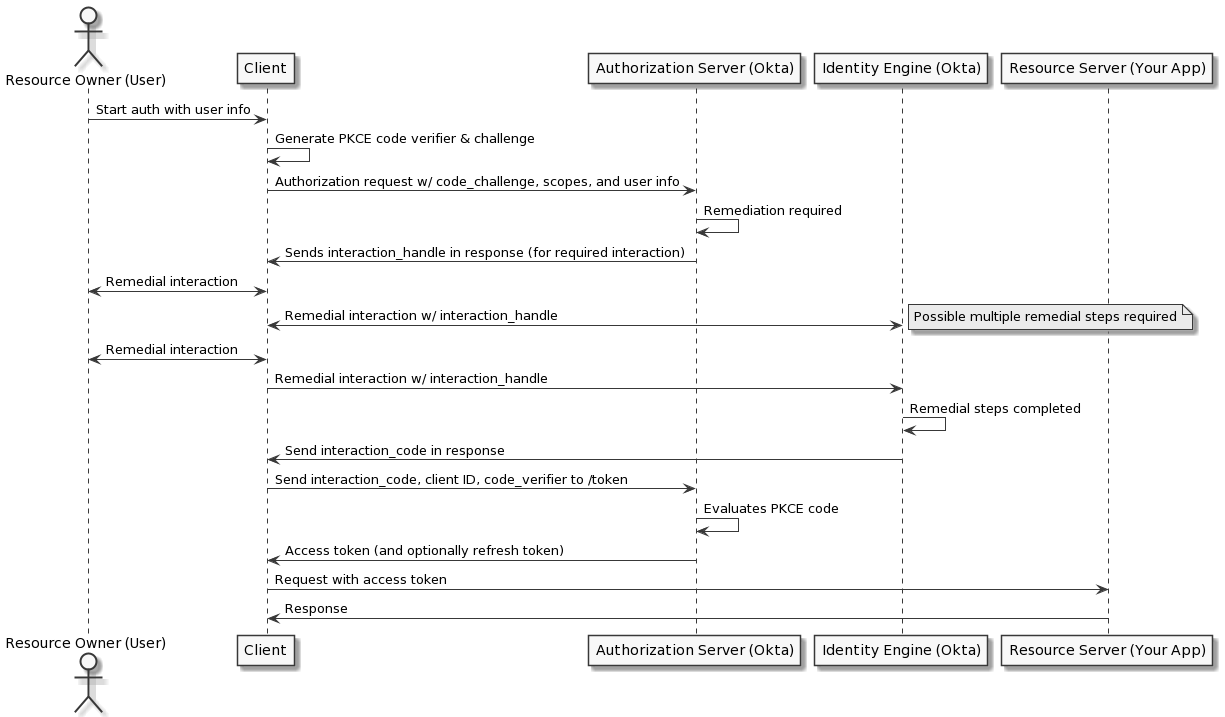
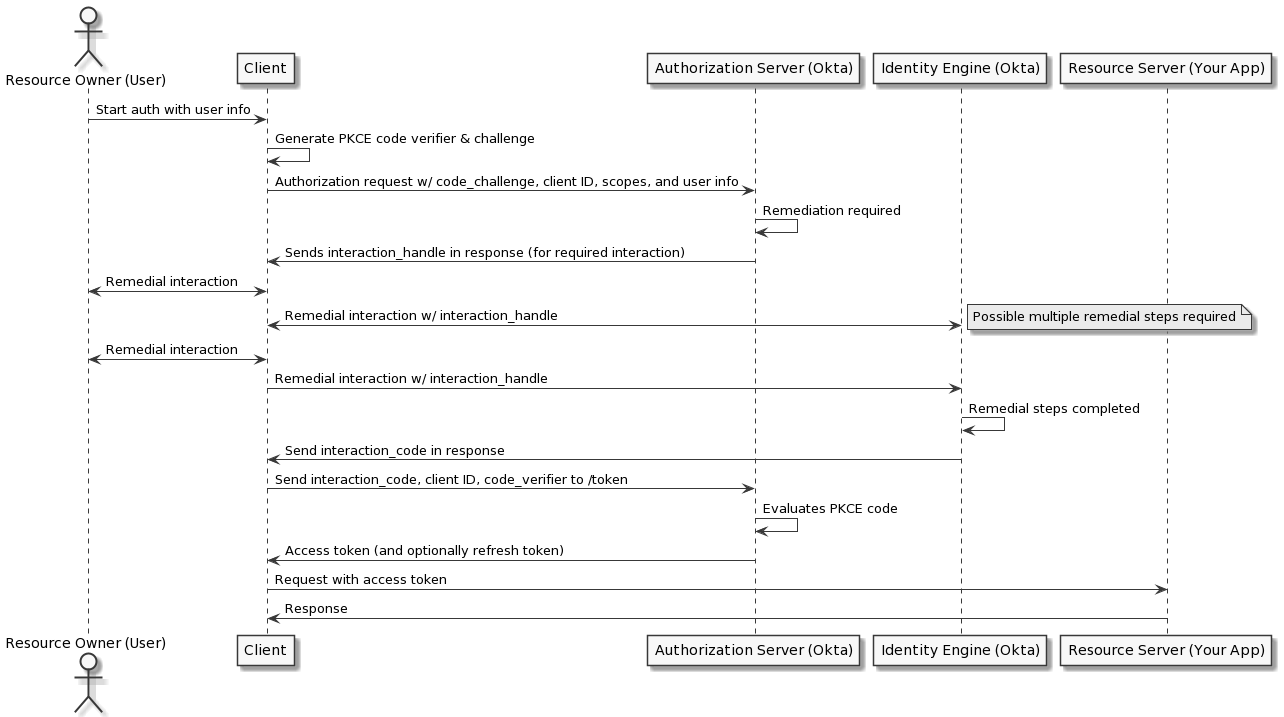
Update overview and flow description based on feedback from Vadym

diff --git a/packages/@okta/vuepress-theme-prose/const/navbar.const.js b/packages/@okta/vuepress-theme-prose/const/navbar.const.js
@@ -46,7 +46,7 @@ export const concepts = [
         title: "Identity Engine",
         subLinks: [
           {
-            title: "Interaction Code grant",
+            title: "Interaction Code grant type",
             path: "/docs/concepts/interaction-code/"
           },
           {

diff --git a/packages/@okta/vuepress-site/docs/concepts/interaction-code/index.md b/packages/@okta/vuepress-site/docs/concepts/interaction-code/index.md
@@ -1,35 +1,39 @@
 ---
-title: Interaction Code grant
+title: Interaction Code grant type
 meta:
   - name: description
     content: An overview of the Interaction Code grant type for Okta Identity Engine.
 ---
 
-# Interaction Code grant
+# Interaction Code grant type
 
 <ApiLifecycle access="ie" /><br>
 <ApiLifecycle access="Limited GA" /><br>
 
 ## Overview
 
-To enable a more customized user authentication experience, Okta has introduced an addition to the [OAuth 2.0 and OpenID Connect](/docs/concepts/oauth-openid) standard called the Interaction Code grant type. This grant type allows apps to manage user interaction with the Okta Authorization Server without a browser. This is useful when the client has a particular way that it wants to interact with the user and doesn’t need to share an authenticated session with other applications.
+To enable a more customized user authentication experience, Okta has introduced an addition to the [OAuth 2.0 and OpenID Connect](/docs/concepts/oauth-openid) standard called the Interaction Code grant type. This grant type allows apps to manage user interaction with Okta without a browser. This is useful when the client has a particular way that it wants to interact with the user and doesn’t need to share an authenticated session with other applications.
 
-The Interaction Code flow consists of a series of interactions between the user and the Authorization Server, facilitated by the client. Each interaction is called a remediation step and corresponds to a piece of user data required by the Authorization Server. The client obtains these remediation steps from the Identity Engine component of the Authorization Server and prompts the user for the required data to continue the flow.
+The Interaction Code flow consists of a series of interactions between the user and an Okta org, facilitated by the client. Each interaction is called a remediation step and corresponds to a piece of user data required by the Okta org for authentication. The client obtains these remediation steps from the Identity Engine component of the Okta org and prompts the user for the required data to continue the flow.
 
-For example, a user could start an authentication flow by entering only a username, and this flow would prompt the client to request more information, or remediation, as required. Remediation is the direct communication between the client and the Authorization Server that can be achieved either without a browser redirect or with a browser redirect when the remediation transitions through a push authorization request. An example of a remediation step is the client prompting the user for a password or to add a second factor and then sending that information directly to the Authorization Server.
+For example, a user could start an authentication flow by entering only a username, and this flow would prompt the client to request more information, or remediation, as required. Remediation is the direct communication between the client and the Identity Engine that can be achieved either without a browser redirect or with a browser redirect when the remediation transitions through a push authorization request. An example of a remediation step is the client prompting the user for a password or to add a second factor and then sending that information directly to the Identity Engine component of the Okta org.
 
-The Interaction Code grant is intended for developers who want a step-by-step remediation user experience without redirecting to an Authorization Server. This grant type enables developers to include [Identity Engine features](https://help.okta.com/en/oie/okta_help_CSH.htm#csh-features), such as passwordless authentication and progressive profiling. See [Redirect authentication vs. embedded authentication](/docs/concepts/redirect-vs-embedded/) for Identity Engine authentication deployment models and [Identity Engine deployment guides](/docs/guides/oie-intro/) for detailed deployment use cases.
+When the remediation steps are completed, the Identity Engine provides the client with an Interaction Code that is then used to exchange for tokens by an [Okta Authentication Server](/docs/concepts/auth-servers/).
+
+The Interaction Code grant is intended for developers who want a step-by-step remediation user experience without redirecting to an authorization server. This grant type enables developers to include [Identity Engine features](https://help.okta.com/en/oie/okta_help_CSH.htm#csh-features) in their app, such as passwordless authentication and progressive profiling. See [Redirect authentication vs. embedded authentication](/docs/concepts/redirect-vs-embedded/) for Identity Engine authentication deployment models and [Identity Engine deployment guides](/docs/guides/oie-intro/) for detailed deployment use cases.
 
 ## The Interaction Code flow
 
-The Interaction Code flow is similar to the [OAuth 2.0 Authorization Code flow with PKCE](/docs/concepts/oauth-openid/#authorization-code-flow-with-pkce). All clients are required to pass along a client ID, as well as a Proof Key for Code Exchange (PKCE), to keep the flow secure. Confidential clients such as web apps must also pass a client secret in their authorization request. The user can start the authorization request with minimal information, relying on the client to facilitate the interactions with the Okta Authorization Server to progressively authenticate the user. The series of interactions, which could include multifactor authentication steps, is secured using the `interaction_handle`. After successfully completing the remedial interactions, the client receives an `interaction_code` that they can then redeem for tokens with the [`/token`](/docs/reference/api/oidc/#token) endpoint.
+The Interaction Code flow is similar to the [OAuth 2.0 Authorization Code flow with PKCE](/docs/concepts/oauth-openid/#authorization-code-flow-with-pkce). All clients are required to pass along a client ID, as well as a Proof Key for Code Exchange (PKCE), to keep the flow secure. Confidential clients such as web apps must also pass a client secret in their authorization request. The user can start the authorization request with minimal information, relying on the client to facilitate the interactions with the Okta org to progressively authenticate the user. The series of interactions, which could include multifactor authentication steps, is secured using the `interaction_handle`. After successfully completing the remedial interactions, the client receives an `interaction_code` that they can then redeem for tokens from an Okta Authorization Server with the [`/token`](/docs/reference/api/oidc/#token) endpoint.
+
+The Interaction Code flow is supported by Okta's two authorization server types: the [Org Authorization Server](/docs/concepts/auth-servers/#org-authorization-server) and [Custom Authorization Server](/docs/concepts/auth-servers/#custom-authorization-server). These Okta Authorization Servers must have the Interaction Code grant type enabled in their Access Policy Rule to accept Interaction Code grant type requests.
 
 The following table describes the parameters introduced for the Interaction Code grant type flow:
 
 | Interaction Code grant parameter           | Description   |
 | --------------------------------           | -----------   |
-| `interaction_handle` | The `interaction_handle` is an opaque, immutable value that is provided by the Okta Authorization Server. The client can use the `interaction_handle` to interact with the Okta Authorization Server directly. The client is responsible for saving the `interaction_handle` and using it for the duration of the transaction. Any public/confidential client that is configured to use the Interaction Code grant type can obtain an `interaction_handle`. If all the remediation steps are successfully performed, an `interaction_code` is returned as part of the success response.            |
-| `interaction_code` |  The `interaction_code` is a one-time use, opaque code that the client can exchange for tokens using the Interaction Code grant type. This code enables a client to redeem a completed Identity Engine interaction for tokens without needing access to an Authorization Server’s session. |
+| `interaction_code` |  The `interaction_code` is a one-time use, opaque code that the client can exchange for tokens using the Interaction Code grant type. This code enables a client to redeem a completed Identity Engine interaction for tokens without needing access to an authorization server’s session. |
+| `interaction_handle` | The `interaction_handle` is an opaque, immutable value that is provided by an Okta Authorization Server. The client can use the `interaction_handle` to interact with the Identity Engine component of the Okta org directly. The client is responsible for saving the `interaction_handle` and using it to hold the state of the transaction during remediation. Any public/confidential client that is configured to use the Interaction Code grant type can obtain an `interaction_handle`. If all the remediation steps are successfully performed, an `interaction_code` is returned as part of the success response.            |
 
 The following sequence of steps is a typical Interaction Code flow with the Identity Engine:
 
@@ -46,7 +50,7 @@ participant "Resource Server (Your App)" as app
 
 user -> client: Start auth with user info
 client -> client: Generate PKCE code verifier & challenge
-client -> okta: Authorization request w/ code_challenge, scopes, and user info
+client -> okta: Authorization request w/ code_challenge, client ID, scopes, and user info
 okta -> okta: Remediation required
 okta -> client: Sends interaction_handle in response (for required interaction)
 user <-> client: Remedial interaction
@@ -71,11 +75,13 @@ app -> client: Response
 
 * The client app generates the PKCE code verifier & code challenge.
 
-* The client app begins interaction with the Authorization Server, providing any context it may have, such as a login hint, as well as sending the code challenge in a request for authorization of certain scopes to the Okta Authorization Server.
+  > **Note:** To use the Interaction Code flow, both the client app and the Okta Authorization Server must have the Interaction Code grant type enabled in the Okta org.
 
-  > **Note:** A confidential client authenticates with the Authorization Server while a public client (like the Sign-In Widget) identifies itself to the Authorization Server. Both must provide the PKCE code challenge.
+* The client app begins interaction with an [Okta Authorization Server](/docs/concepts/auth-servers/) (Org or Custom), providing any context it may have, such as a login hint, as well as sending the code challenge in a request for authorization of certain scopes to the Okta Authorization Server.
 
-* The Authorization Server sends the `interaction_handle` parameter in the body of a response to the client app.
+  > **Note:** A confidential client authenticates with the Okta Authorization Server while a public client (like the Sign-In Widget) identifies itself to the Okta Authorization Server. Both must provide the PKCE code challenge.
+
+* The Okta Authorization Server sends the `interaction_handle` parameter in the body of a response to the client app.
 
   > **Note:** The `interaction_handle` is used to continue the interaction directly with the Identity Engine. This is why the client, either confidential or public, needs to be registered with the Identity Engine to perform this direct interaction.
 
@@ -85,11 +91,11 @@ app -> client: Response
 
   > **Note:** The Interaction Code has a maximum lifetime of 60 seconds.
 
-* The client sends the code verifier and the `interaction_code` to the Authorization Server (`/${authServerId}/token` endpoint) to exchange for tokens.
+* The client sends the code verifier and the `interaction_code` to the Okta Authorization Server to exchange for tokens.
 
   > **Note:** The `interaction_code` indicates that the client (and user) went through all of the necessary interactions and received a successful response from Identity Engine.
 
-* The Authorization Server authenticates the client and validates the `interaction_code`. If the code is valid, the Authorization Server sends the tokens (access, ID, and/or refresh) that were initially requested.
+* The Okta Authorization Server authenticates the client and validates the `interaction_code`. If the code is valid, the Authorization Server sends the tokens (access, ID, and/or refresh) that were initially requested.
 
 * The client makes a request with the access token to your app.
 
